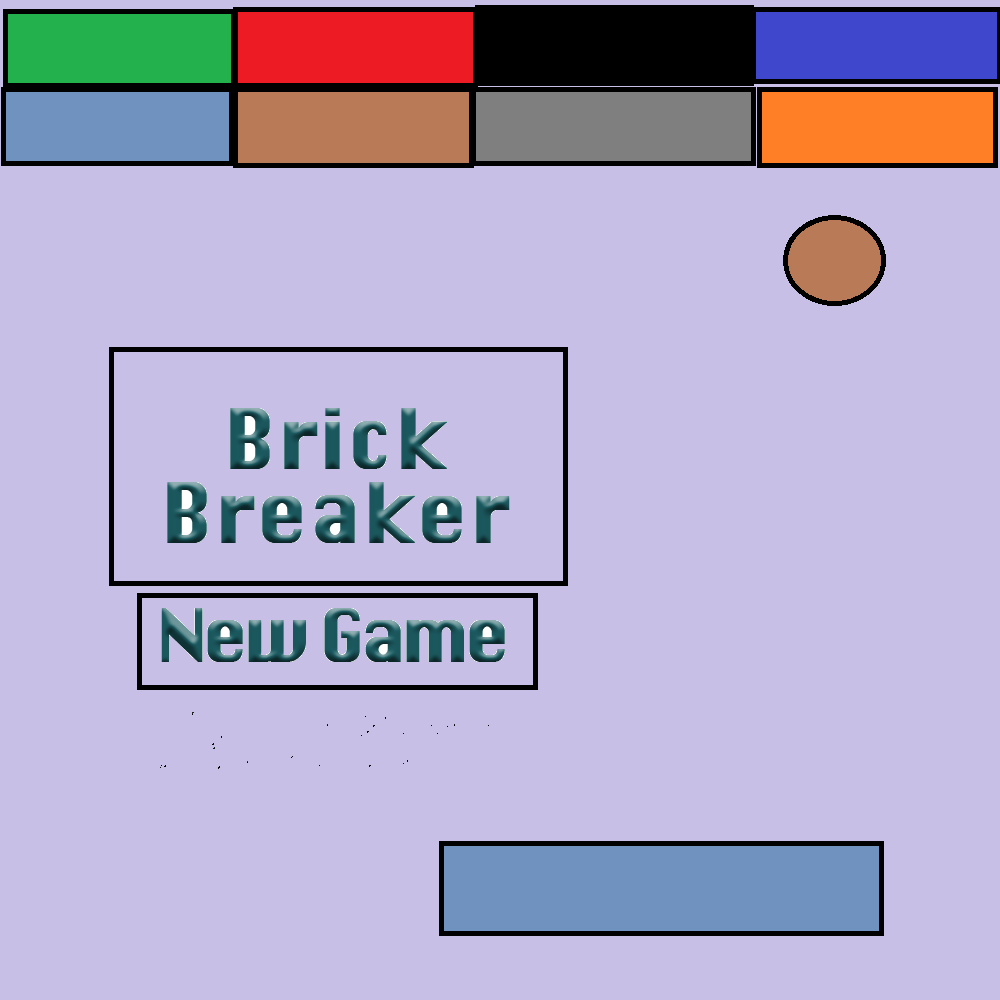
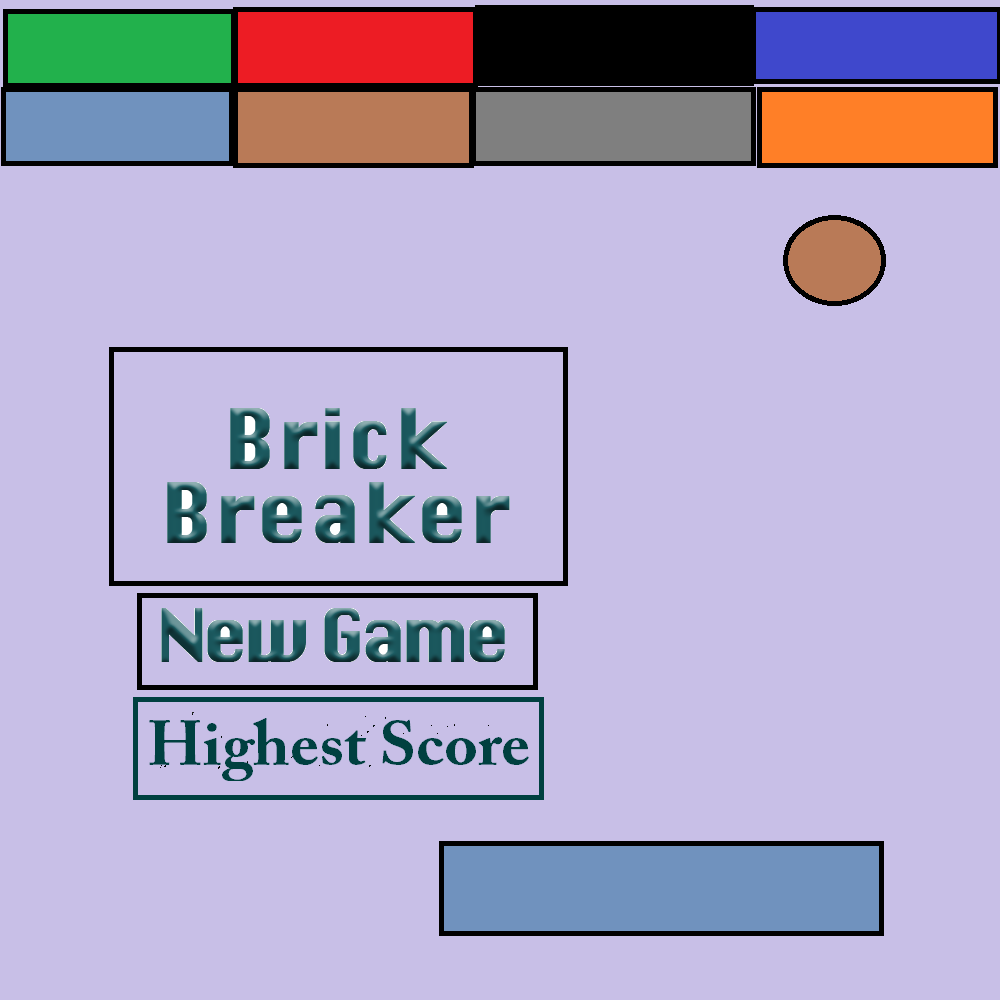
Updated One

Changed region(s): [[0.124, 0.682, 0.558, 0.806]]

diff --git a/Brick Breaker/src/main/Scoreing.java b/Brick Breaker/src/main/Scoreing.java
@@ -1,0 +1,99 @@
+package main;
+
+import java.io.File;
+import java.io.FileNotFoundException;
+import java.io.FileWriter;
+import java.io.IOException;
+import java.util.Scanner;
+
+public class Scoreing {
+
+
+	private static String filePath = getDefaultDirectory() + "/Brickbreaker/";
+	public static String HIGHSCOREPATH = getDefaultDirectory() + "/Brickbreaker/Highscores.txt";
+
+	public static void init() {
+		createDir(filePath);
+		createFile(HIGHSCOREPATH);
+	}
+
+	public static int[] readFile(String filePath) {
+		int[] scores = { 0, 0, 0, 0, 0};
+		File file = new File(filePath);
+		if (file.exists()) {
+			Scanner scanner = null;
+			try {
+				scanner = new Scanner(file);
+			} catch (FileNotFoundException e) {
+				e.printStackTrace();
+			}
+			int line = 0;
+			while (scanner.hasNextInt()) {
+				scores[line] = scanner.nextInt();
+				line++;
+			}
+			scanner.close();
+			return scores;
+		} else {
+			createFile(filePath);
+			return scores;
+		}
+
+	}
+
+	public static void SaveScores(int[] scores) {
+		deleteFile(filePath + "HighScores.txt");
+		createFile(filePath + "HighScores.txt");
+		writeFile(new File(filePath + "HighScores.txt"), scores);
+	}
+
+	public static void createFile(String filePath) {
+		File path = new File(filePath);
+		if (!path.exists()) {
+			try {
+				path.createNewFile();
+			} catch (IOException e) {
+				e.printStackTrace();
+			}
+			int[] scores = {0, 0, 0, 0, 0};
+			writeFile(path, scores);
+		}	
+	}
+
+	public static void createDir(String filePath) {
+		File path = new File(filePath);
+		if (!path.exists()) {
+			path.mkdir();
+		}
+	}
+
+	public static void writeFile(File file, int[] scores) {
+		FileWriter writer;
+		try {
+			writer = new FileWriter(file);
+			for (int i = 0; i < scores.length; i++) {
+				writer.write(scores[i] + "\n");
+			}
+			System.out.println();
+			writer.close();
+		} catch (IOException e) {
+		}
+	}
+
+	public static void deleteFile(String filePath) {
+		File file = new File(filePath);
+		if (file.exists()) {
+			file.delete();
+		}
+	}
+
+	public static String getDefaultDirectory() {
+		String OS = System.getProperty("os.name").toUpperCase();
+		if (OS.contains("WIN")) {
+			return System.getenv("APPDATA");
+		}
+		return System.getProperty("user.home");
+	}
+
+
+}

diff --git a/Brick Breaker/src/main/HighScore.java b/Brick Breaker/src/main/HighScore.java
@@ -1,0 +1,52 @@
+package main;
+
+import java.awt.Color;
+import java.awt.Graphics;
+import java.awt.Point;
+import java.awt.Rectangle;
+import java.util.Scanner;
+
+import main.Controller;
+import main.Scoreing;
+
+public class HighScore {
+	
+	Rectangle[] arrows = {new Rectangle(5, Frame.HEIGHT-70, 50, 50)};
+	
+	
+	
+	Scanner scanner;
+	public Rectangle back;
+	public Point mousePoint;
+	
+	public int[] scores = {0, 0, 0, 0, 0};
+	
+	public  void init() {
+		mousePoint = new Point(0, 0);
+		back = new Rectangle( Controller.WIDTH/2-100, 400, 200, 50);
+		scores = Scoreing.readFile(Scoreing.HIGHSCOREPATH);
+	}
+	
+	public void render(Graphics g) {
+		g.setColor(Color.BLACK);
+		g.fillRect(0, 0, Controller.WIDTH, Controller.HEIGHT);
+		g.setColor(new Color(100, 100, 100));
+		g.fillRoundRect(100, 50, Controller.WIDTH/3*2, Controller.HEIGHT/3*2, 25, 25);
+		g.setColor(Color.white);
+		g.drawString("Scores", Controller.WIDTH/2-g.getFontMetrics().stringWidth("Scores")/2, 100);
+		for(int i = 0; i < scores.length; i++) {
+			g.drawString("" + scores[i], Controller.WIDTH/2-50, 150+40*i);
+		}
+		
+		if(back.contains(mousePoint)) {
+			g.fillRoundRect(back.x, back.y, back.width, back.height, 25, 25);
+		}
+		g.drawString("Back",back.x +back.x/2 - g.getFontMetrics().stringWidth("Back")/2, back.y + 35);
+		g.setColor(Color.red);
+		g.drawRoundRect(back.x, back.y, back.width, back.height, 25, 25);
+	}
+	public void goBack() {
+		Controller.switchClasses(Controller.STATE.MENU);
+	}
+
+}
